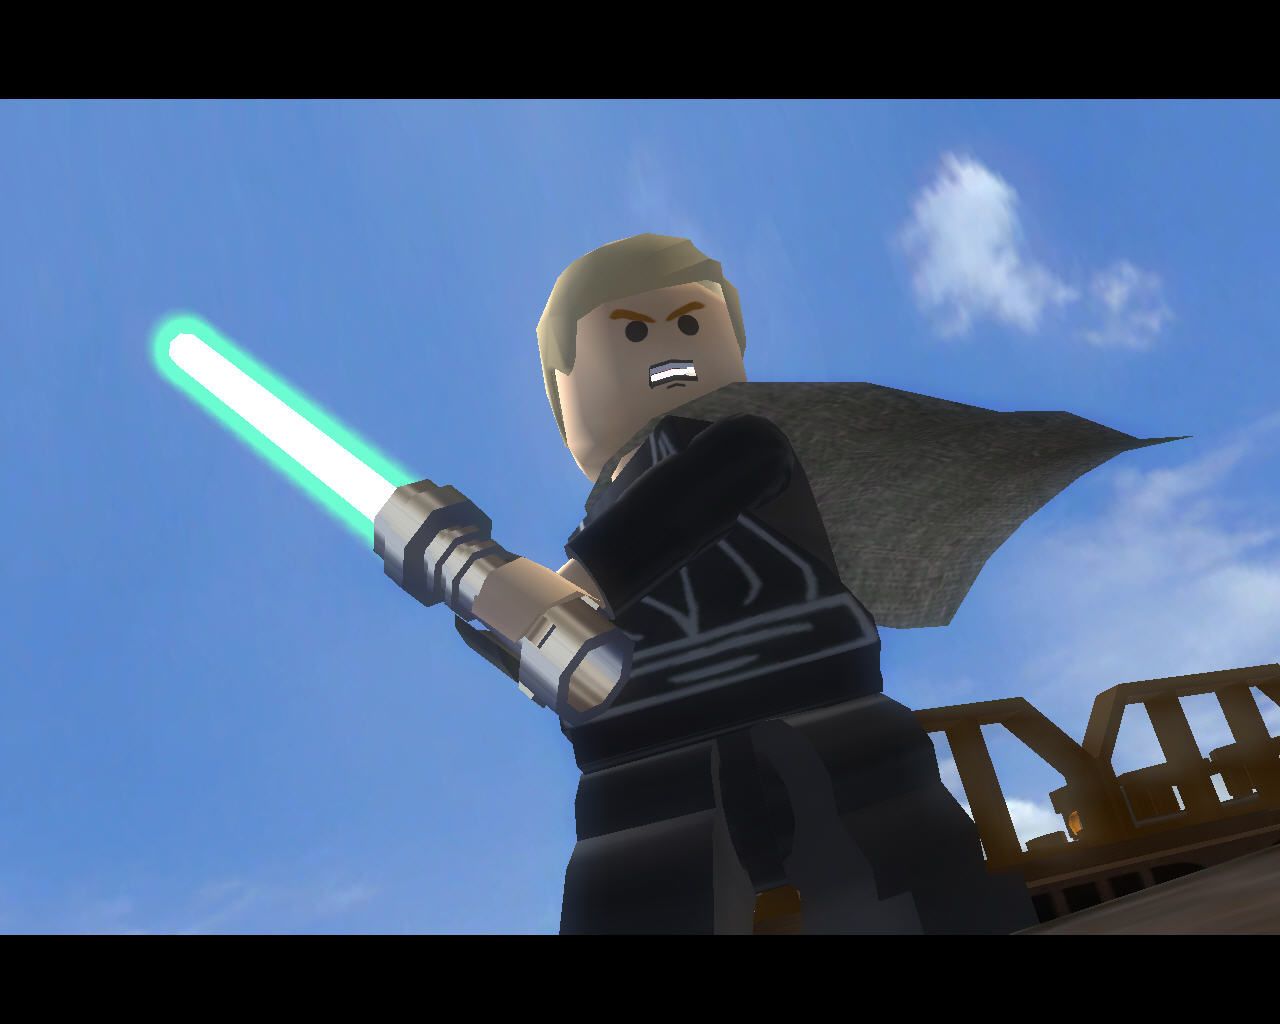
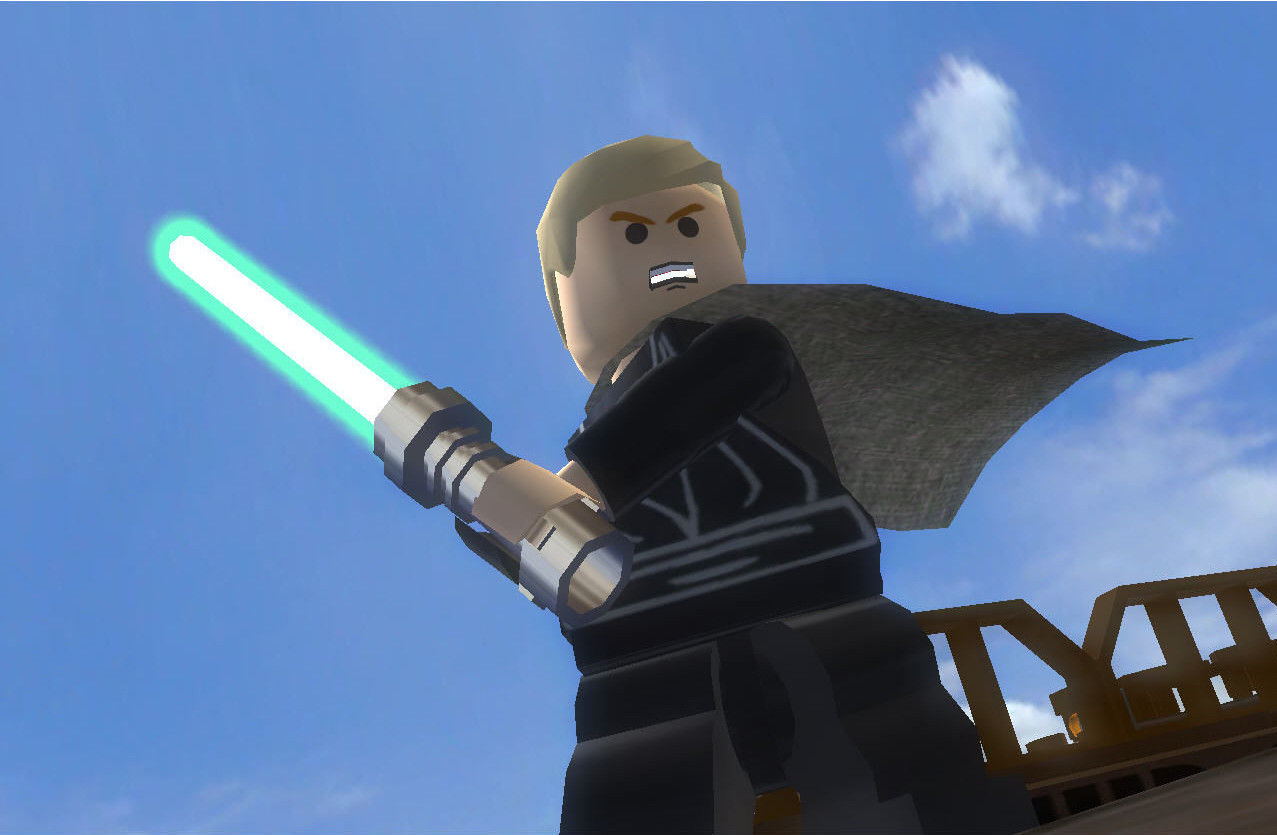
Tweakin

diff --git a/yowlj2015.html b/yowlj2015.html
@@ -207,9 +207,9 @@ template: starwars
 
 ---
 
-template: image
+template: image-white
 
-<img src="images/jedi-master.jpg" />
+<img src="images/jedi-master.jpg" height="100%" />
 
 # Today
 
@@ -236,7 +236,7 @@ trait List[A] {
 
 ---
 
-## Crawling out of the swamp
+## Examples
 
 ```scala
 Nil.headOption = None
@@ -341,7 +341,8 @@ template: image-white
 
 ```scala
 forAll { s: String =>
-  new String(s.getBytes) =? s
+  val b = s.getBytes
+  new String(b) =? s
 }
 ```
 
@@ -351,7 +352,8 @@ forAll { s: String =>
 
 ```scala
 forAll { (s: String, c: Charset) =>
-  new String(s.getBytes(c), c) =? s
+  val b = s.getBytes(c)
+  new String(b, c) =? s
 }
 ```
 
